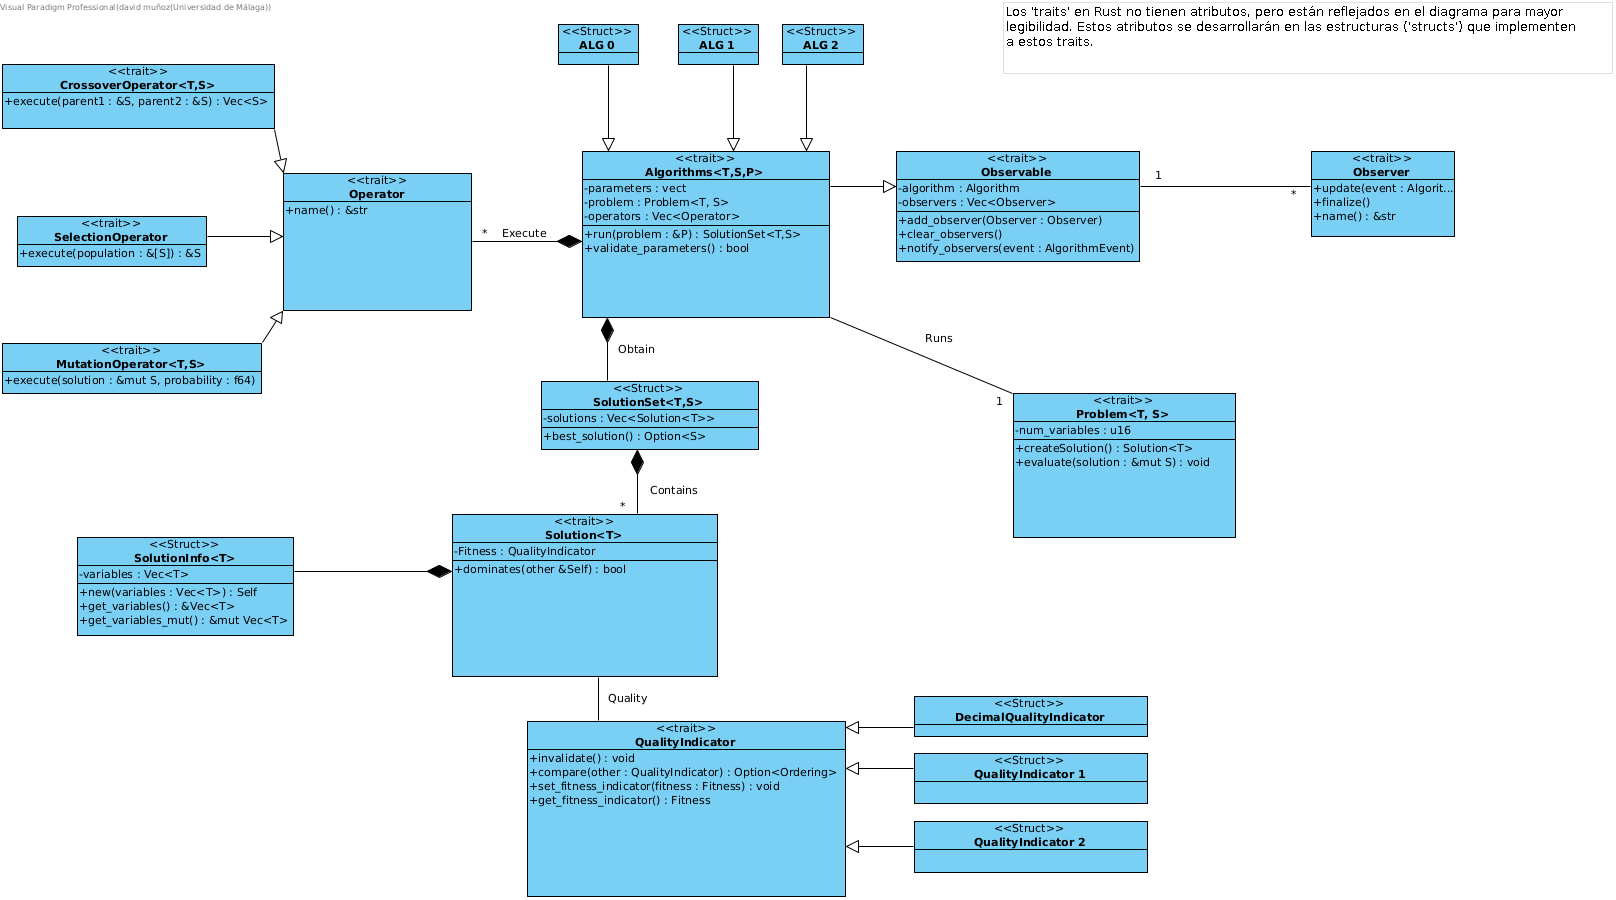
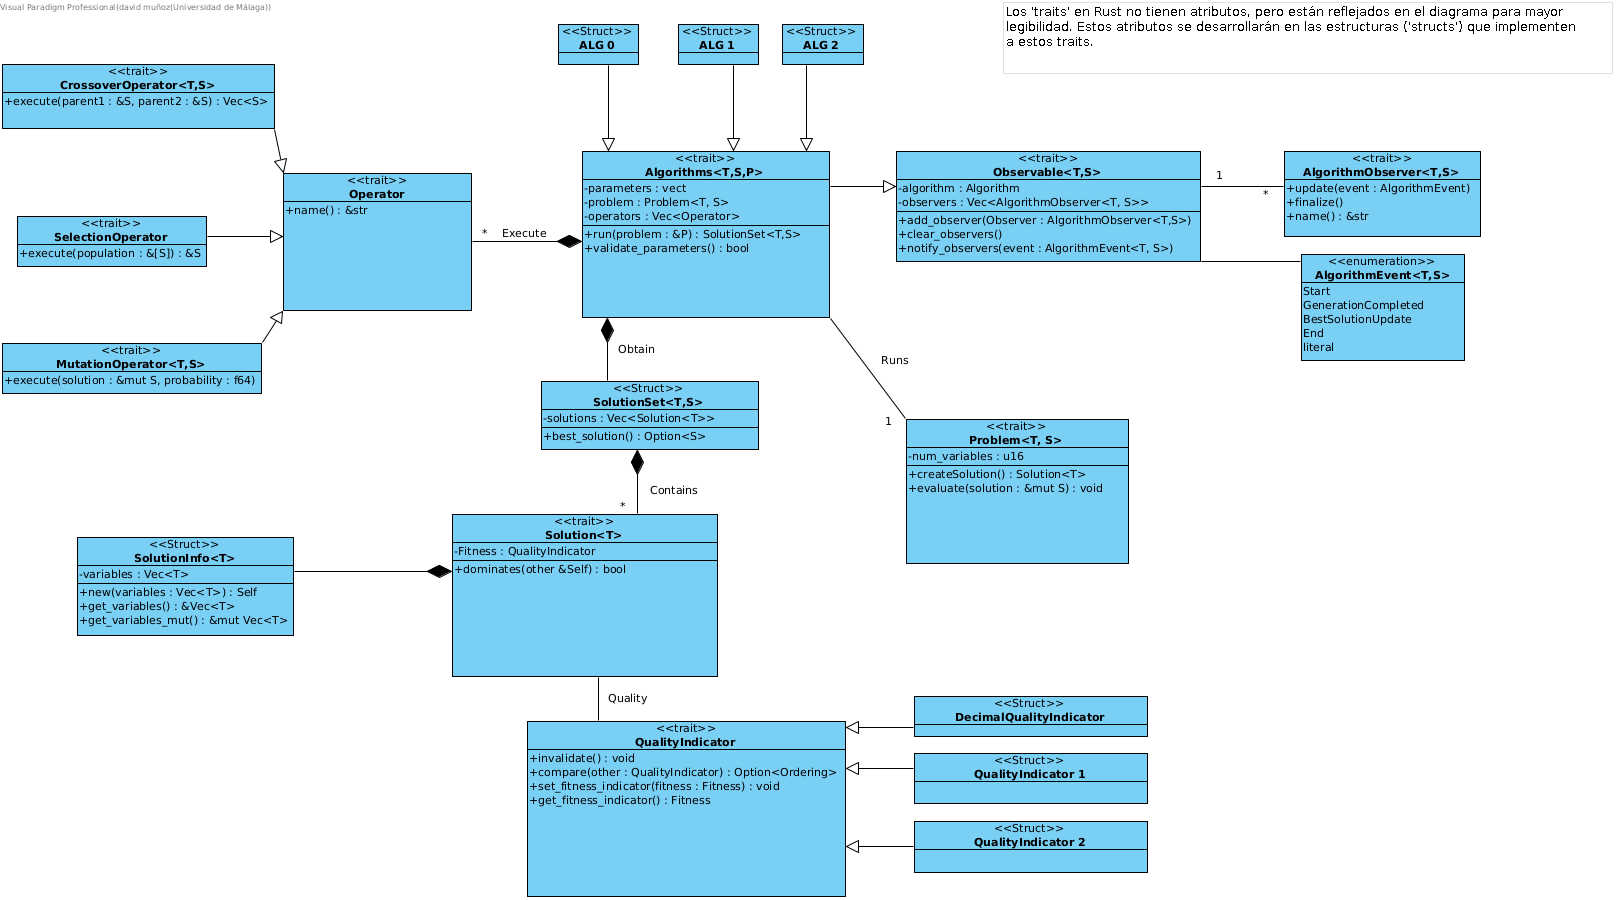
Anteproyecto definitvo + Mem + Bugfixes
Borramos la plantilla, no debe estar allí

Eliminamos un test que al cambiar la creación de una solución del problema de la mochila no tiene sentido

Anteproyecto final + actualización de la memoria + seguimos con la arquitectura

diff --git a/rMetal/src/problem/implementations/knapsack_problem.rs b/rMetal/src/problem/implementations/knapsack_problem.rs
@@ -159,21 +159,6 @@ mod tests {
     }
 
     #[test]
-    fn problem_default_solution_weight_test() {
-        let capacity = 100.0;
-        let weights = vec![50.0,40.0,10.0];
-        let values = vec![10.0,20.0,50.0];
-
-        let knapsack_problem = KnapsackProblem::with_data(capacity, weights, values);
-
-        // Any objects in the knapsack
-        let solution = knapsack_problem.create_solution();
-        let expected_weight = 0.0;
-
-        assert_eq!( knapsack_problem.calculate_weight(&solution), expected_weight, "The default solution should have a weight of zero." );
-    }
-
-    #[test]
     fn test_knapsack_creation_with_data() {
         let weights = vec![10.0, 20.0, 30.0];
         let values = vec![100.0, 200.0, 300.0];

diff --git a/rMetal/src/observer/traits.rs b/rMetal/src/observer/traits.rs
@@ -35,8 +35,7 @@ where
 /// Trait for observing algorithm execution
 /// 
 /// Observers can monitor the algorithm's progress and perform actions
-/// such as logging, visualization, or early stopping.
-pub trait AlgorithmObserver<T, S>: Send
+pub trait AlgorithmObserver<T, S>
 where
     S: Solution<T>,
     T: Clone,